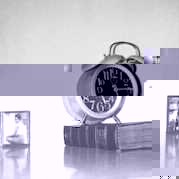
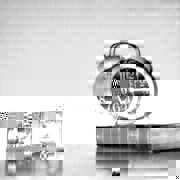
example: up images to 180px, cleanup markup, use pseudo elements as gridlines

diff --git a/example/index.html b/example/index.html
@@ -14,29 +14,29 @@
     <figure>
       <ul>
         <li>
-          <img src="assets/4.2.02.jpg" width="179" height="179" alt="assets/4.2.02.jpg" />
+          <img src="assets/4.2.02.jpg" height="180" width="180" alt="assets/4.2.02.jpg" />
         </li>
         <li>
-          <canvas width="179" height="179">
-            <img src="assets/4.2.02-2.png" width="179" height="179" alt="assets/4.2.02.jpg" />
+          <canvas height="180" width="180">
+            <img src="assets/4.2.02-1.png" height="180" width="180" alt="assets/4.2.02.jpg" />
           </canvas>
         </li>
         <li>
-          <canvas width="179" height="179">
-            <img src="assets/4.2.02-1.png" width="179" height="179" alt="assets/4.2.02.jpg" />
+          <canvas height="180" width="180">
+            <img src="assets/4.2.02-2.png" height="180" width="180" alt="assets/4.2.02.jpg" />
           </canvas>
         </li>
         <li>
-          <img src="assets/5.1.12.jpg" width="179" height="179" alt="assets/5.1.12.jpg" />
+          <img src="assets/5.1.12.jpg" height="180" width="180" alt="assets/5.1.12.jpg" />
         </li>
         <li>
-          <canvas width="179" height="179">
-            <img src="assets/5.1.12-2.png" width="179" height="179" alt="assets/5.1.12.jpg" />
+          <canvas height="180" width="180">
+            <img src="assets/5.1.12-1.png" height="180" width="180" alt="assets/5.1.12.jpg" />
           </canvas>
         </li>
         <li>
-          <canvas width="179" height="179">
-            <img src="assets/5.1.12-1.png" width="179" height="179" alt="assets/5.1.12.jpg" />
+          <canvas height="180" width="180">
+            <img src="assets/5.1.12-2.png" height="180" width="180" alt="assets/5.1.12.jpg" />
           </canvas>
         </li>
       </ul>

diff --git a/example/index.css b/example/index.css
@@ -35,6 +35,17 @@ figure {
   top: 50%;
 }
 
+figure::before {
+  background: #fff;
+  content: "";
+  height: 1px;
+  left: 0;
+  position: absolute;
+  right: 0;
+  top: 180px;
+  z-index: 101;
+}
+
 figcaption {
   margin: 0.5rem 0 0;
 }
@@ -44,20 +55,33 @@ ul {
   list-style: none;
   margin: 0;
   padding: 0;
+  position: relative;
   width: 540px;
+}
+
+ul::before,
+ul::after {
+  background: #fff;
+  content: "";
+  height: 100%;
+  position: absolute;
+  width: 1px;
+  z-index: 101;
+}
+
+ul::before {
+  left: 180px;
+}
+
+ul::after {
+  right: 180px;
 }
 
 li {
   background: #bbb;
-  border: 1px solid #fff;
-  border-width: 0 0 1px 0;
   display: block;
   float: left;
   position: relative;
-}
-
-li:nth-child(3n + 2) {
-  border-width: 0 1px 1px;
 }
 
 canvas,
